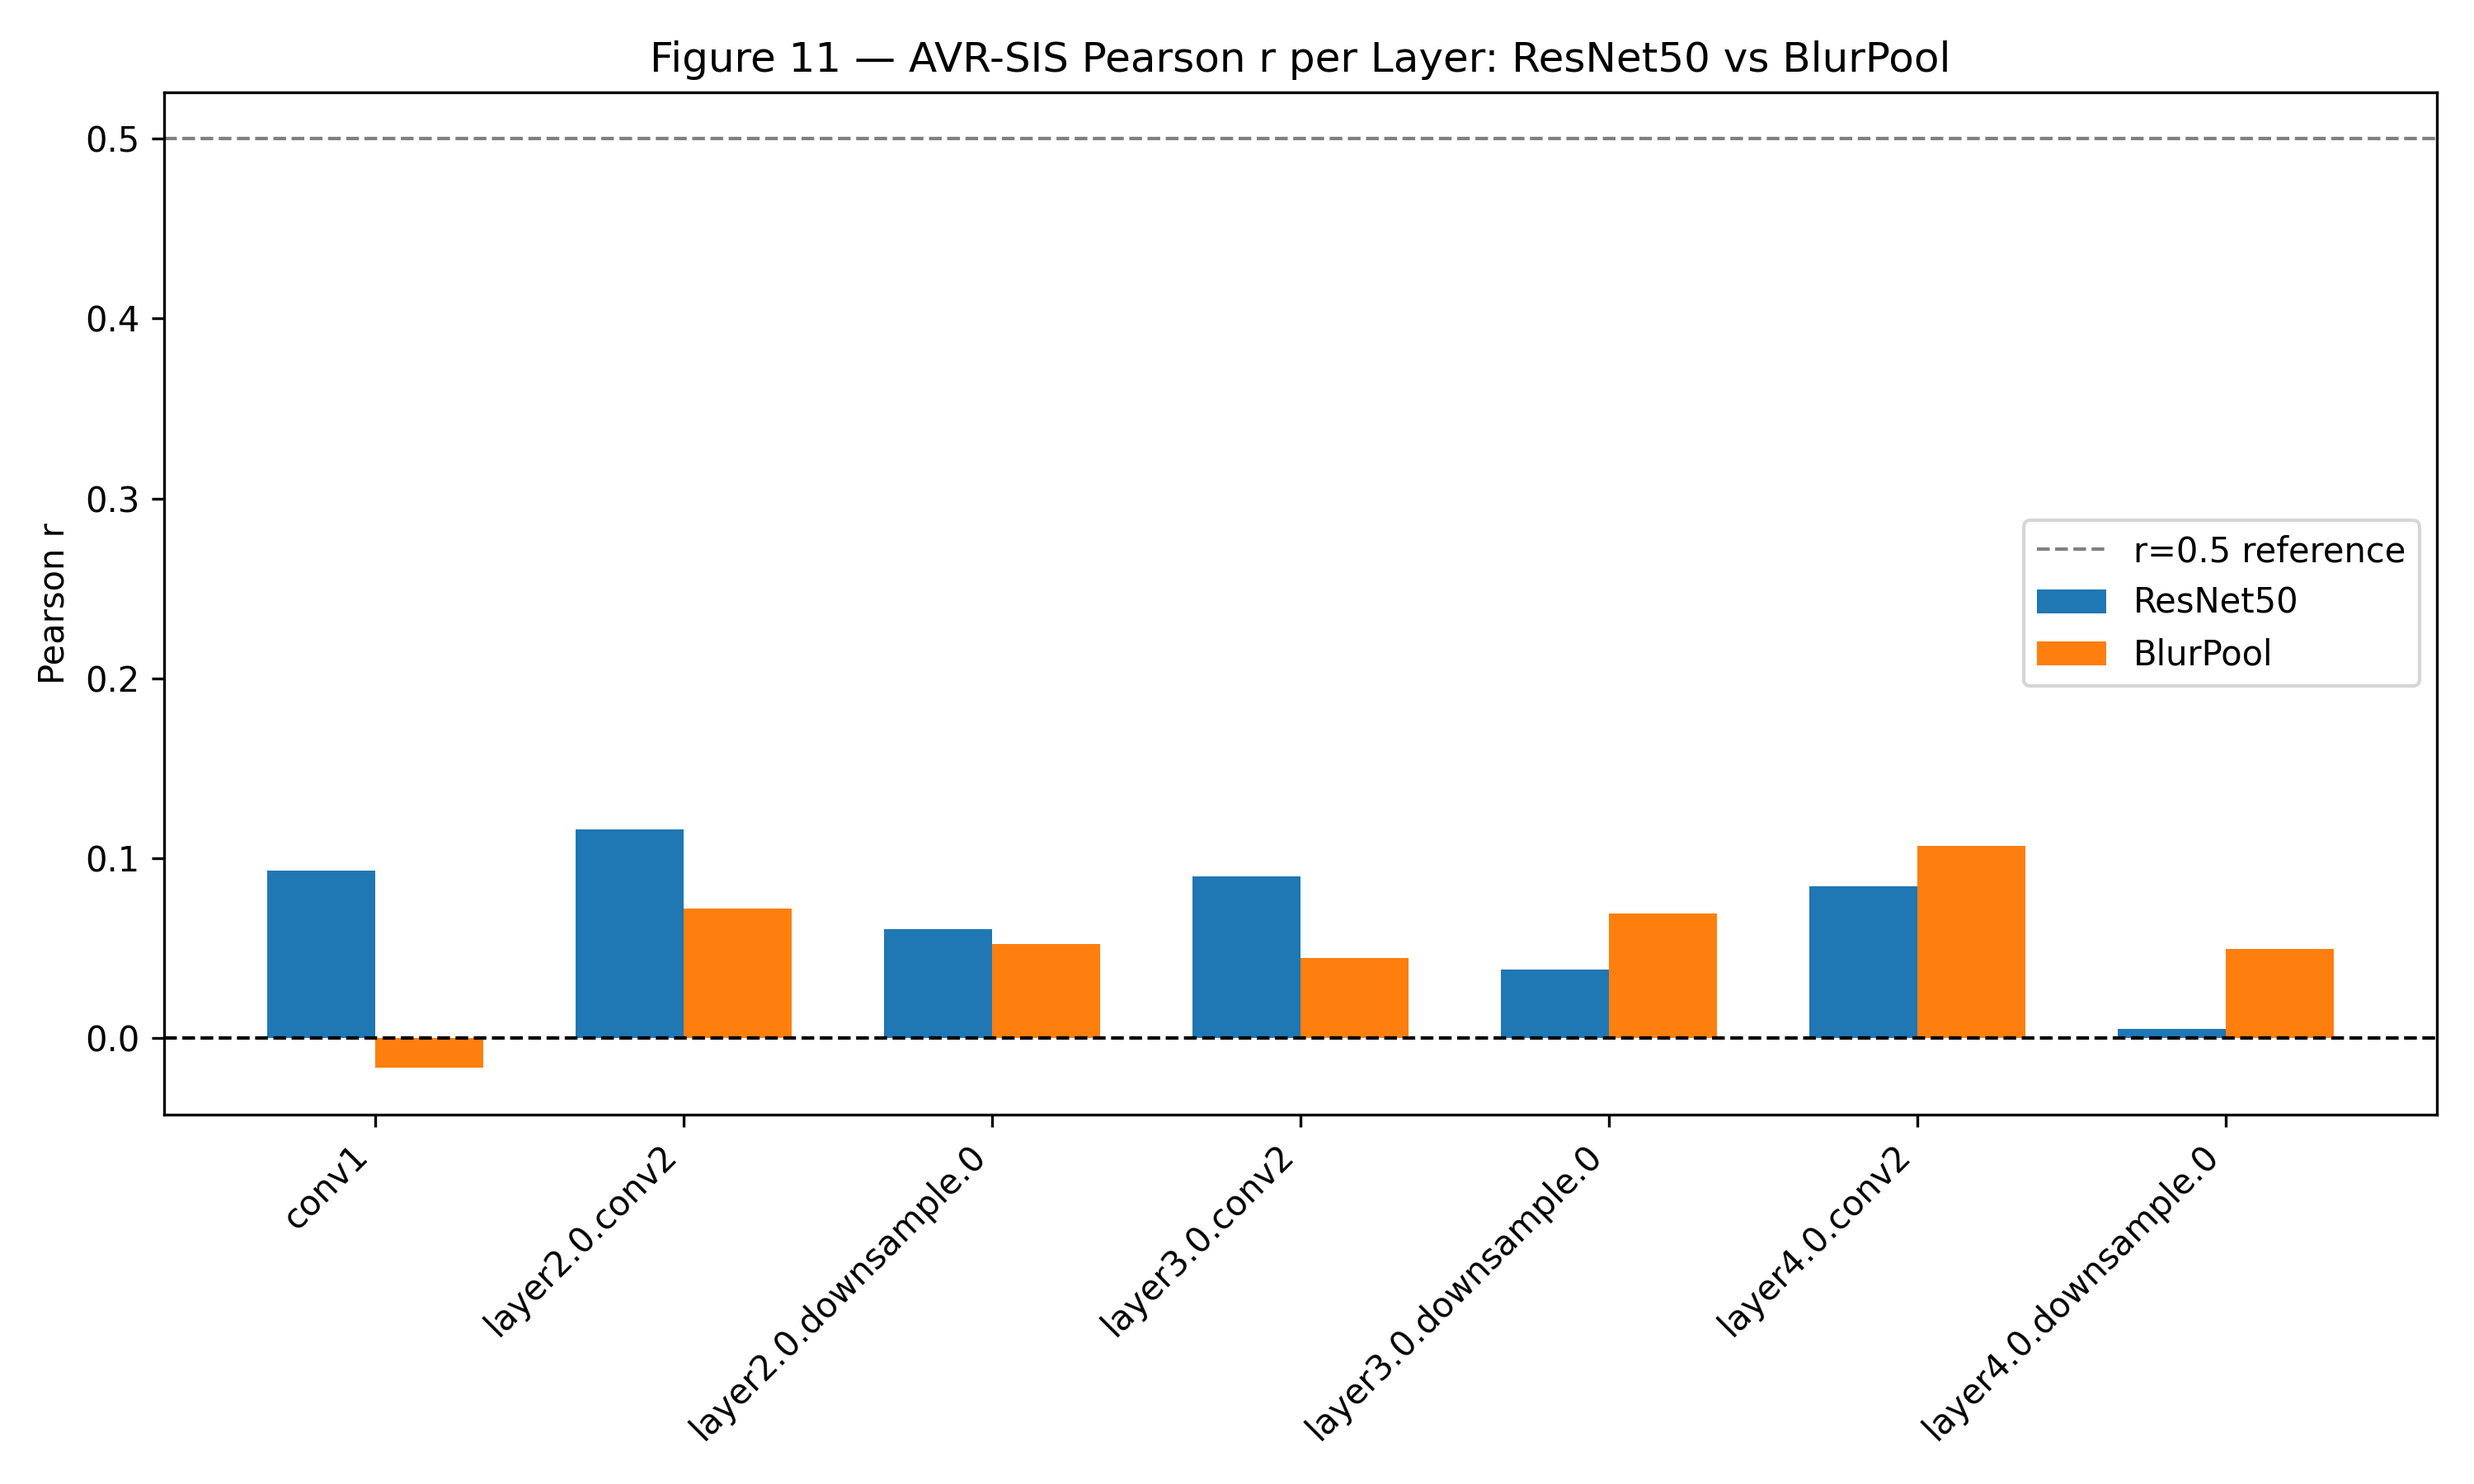
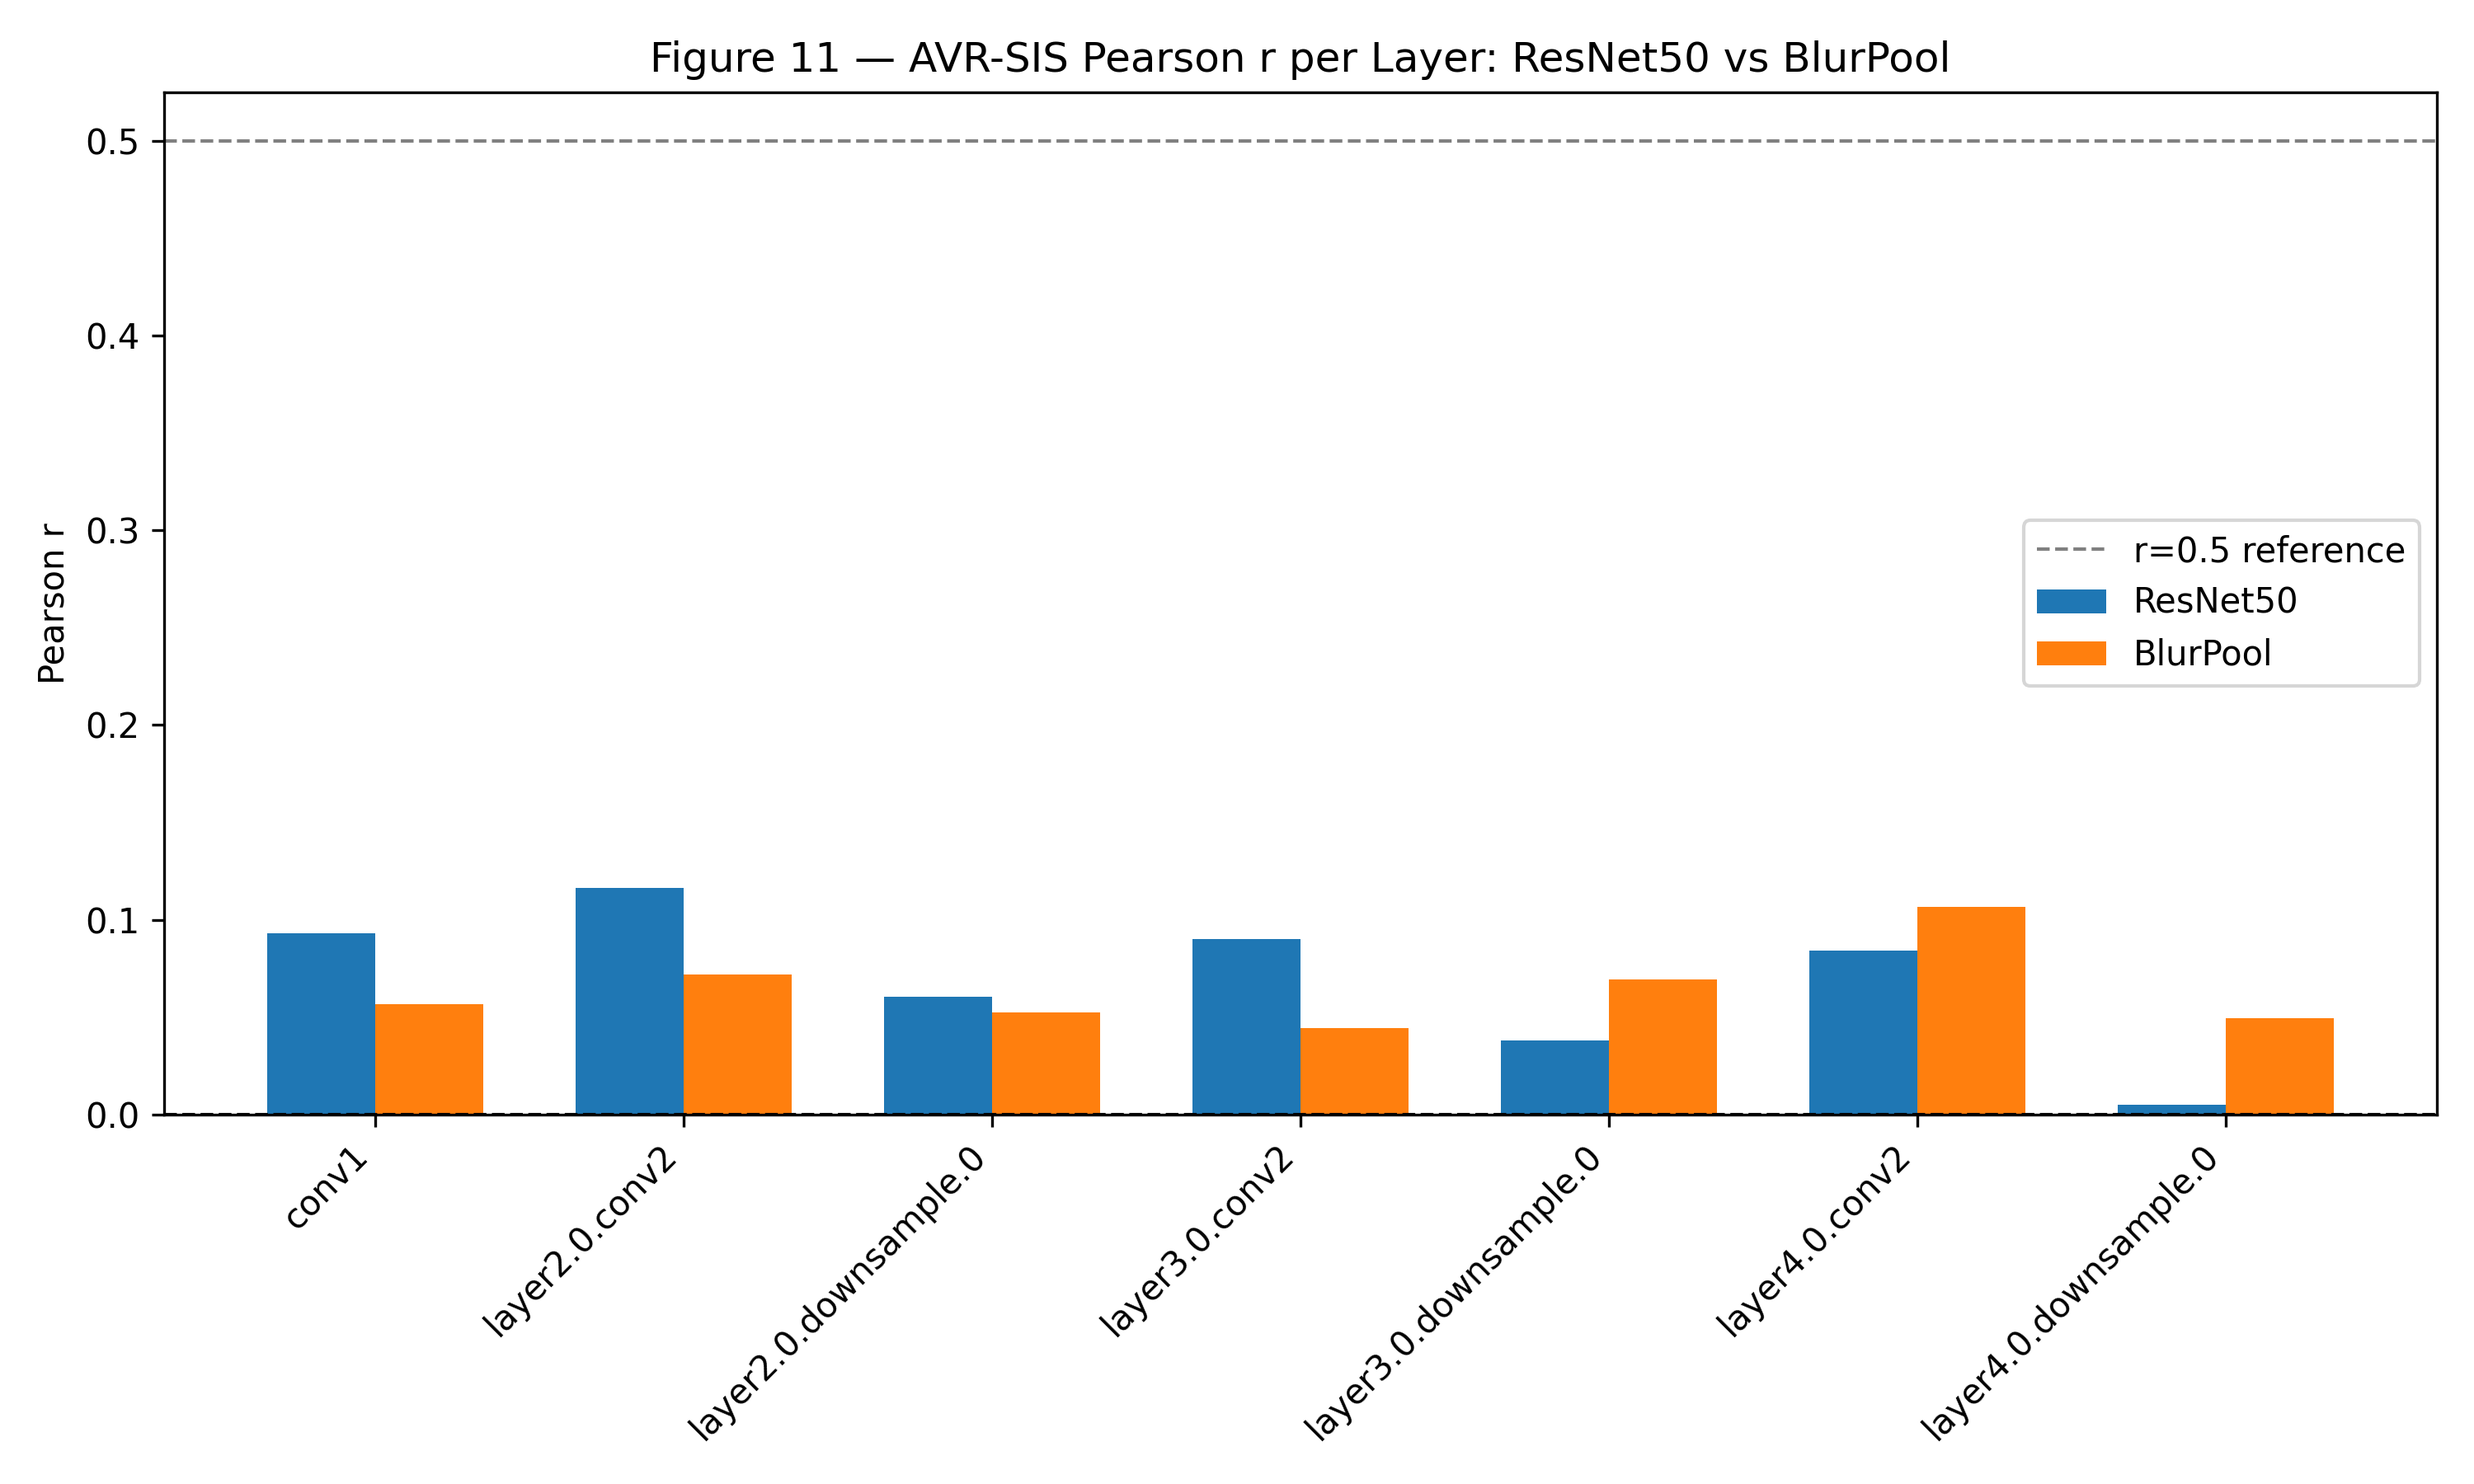
fix(phase3,phase4): correct conv1 hook point for BlurPool

diff --git a/experiments/phase3_natural_images.py b/experiments/phase3_natural_images.py
@@ -34,7 +34,7 @@ BATCH_SIZE = 32
 #   input to capture the pre-blur feature map — the semantic equivalent.
 #
 # Correspondence (from Step 0 diagnostic):
-#   ResNet50 conv1 (stride=2)            ↔  BlurPool maxpool.1 (BlurPool after maxpool)
+#   ResNet50 conv1 (stride=2)            ↔  BlurPool conv1 (identical stride-2 7x7 conv)
 #   ResNet50 layer2.0.conv2 (stride=2)   ↔  BlurPool layer2.0.conv3.0 (BlurPool)
 #   ResNet50 layer2.0.downsample.0       ↔  BlurPool layer2.0.downsample.0 (BlurPool)
 #   ResNet50 layer3.0.conv2 (stride=2)   ↔  BlurPool layer3.0.conv3.0 (BlurPool)
@@ -43,7 +43,7 @@ BATCH_SIZE = 32
 #   ResNet50 layer4.0.downsample.0       ↔  BlurPool layer4.0.downsample.0 (BlurPool)
 
 BLURPOOL_HOOK_LAYERS = [
-    'maxpool.1',              # corresponds to conv1
+    'conv1',                  # stride-2 7x7 conv -- identical to ResNet50, hook directly
     'layer2.0.conv3.0',       # corresponds to layer2.0.conv2
     'layer2.0.downsample.0',  # corresponds to layer2.0.downsample.0
     'layer3.0.conv3.0',       # corresponds to layer3.0.conv2
@@ -54,7 +54,7 @@ BLURPOOL_HOOK_LAYERS = [
 
 # Mapping from BlurPool hook name → canonical ResNet50 layer name (for CSV/plots)
 BLURPOOL_TO_RESNET_NAME = {
-    'maxpool.1':              'conv1',
+    'conv1':                  'conv1',
     'layer2.0.conv3.0':       'layer2.0.conv2',
     'layer2.0.downsample.0':  'layer2.0.downsample.0',
     'layer3.0.conv3.0':       'layer3.0.conv2',

diff --git a/experiments/phase4_shift_correlation.py b/experiments/phase4_shift_correlation.py
@@ -55,7 +55,7 @@ BATCH_SIZE = 32
 # Hook point mapping (same as Phase 3)
 # ---------------------------------------------------------------------------
 BLURPOOL_HOOK_LAYERS = [
-    'maxpool.1',              # corresponds to conv1
+    'conv1',                  # stride-2 7x7 conv -- identical to ResNet50, hook directly
     'layer2.0.conv3.0',       # corresponds to layer2.0.conv2
     'layer2.0.downsample.0',  # corresponds to layer2.0.downsample.0
     'layer3.0.conv3.0',       # corresponds to layer3.0.conv2
@@ -65,7 +65,7 @@ BLURPOOL_HOOK_LAYERS = [
 ]
 
 BLURPOOL_TO_RESNET_NAME = {
-    'maxpool.1':              'conv1',
+    'conv1':                  'conv1',
     'layer2.0.conv3.0':       'layer2.0.conv2',
     'layer2.0.downsample.0':  'layer2.0.downsample.0',
     'layer3.0.conv3.0':       'layer3.0.conv2',
